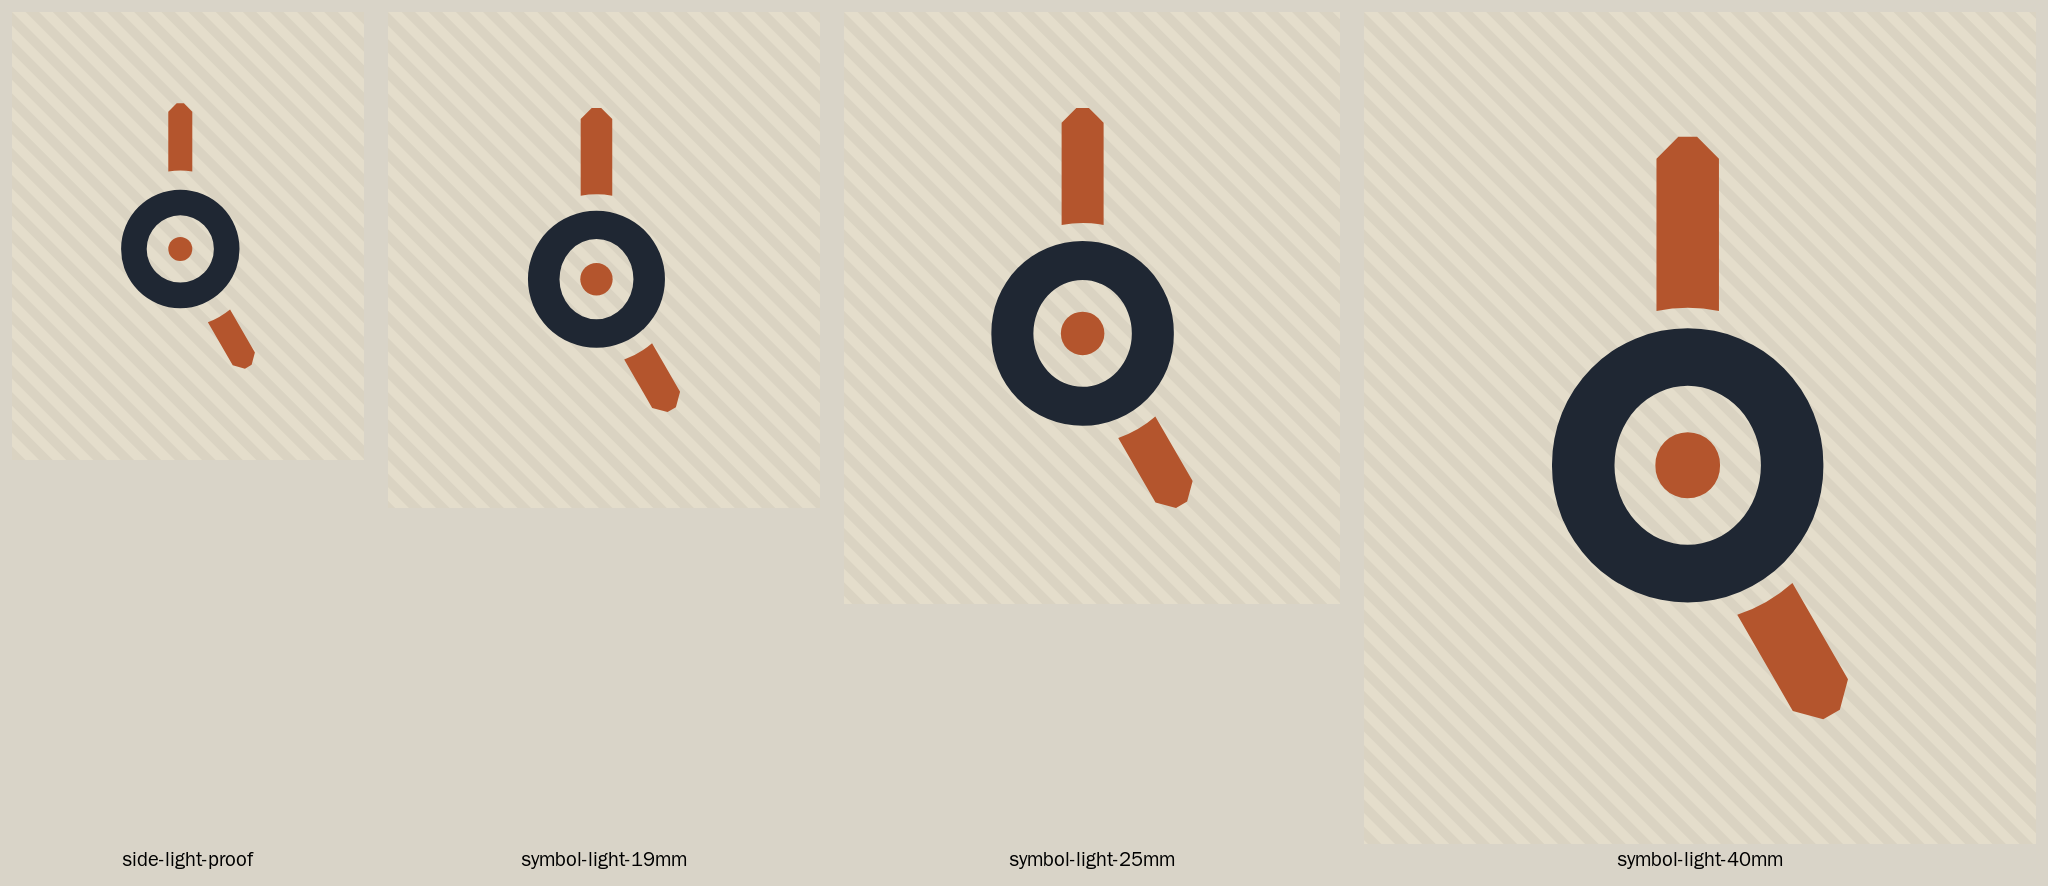
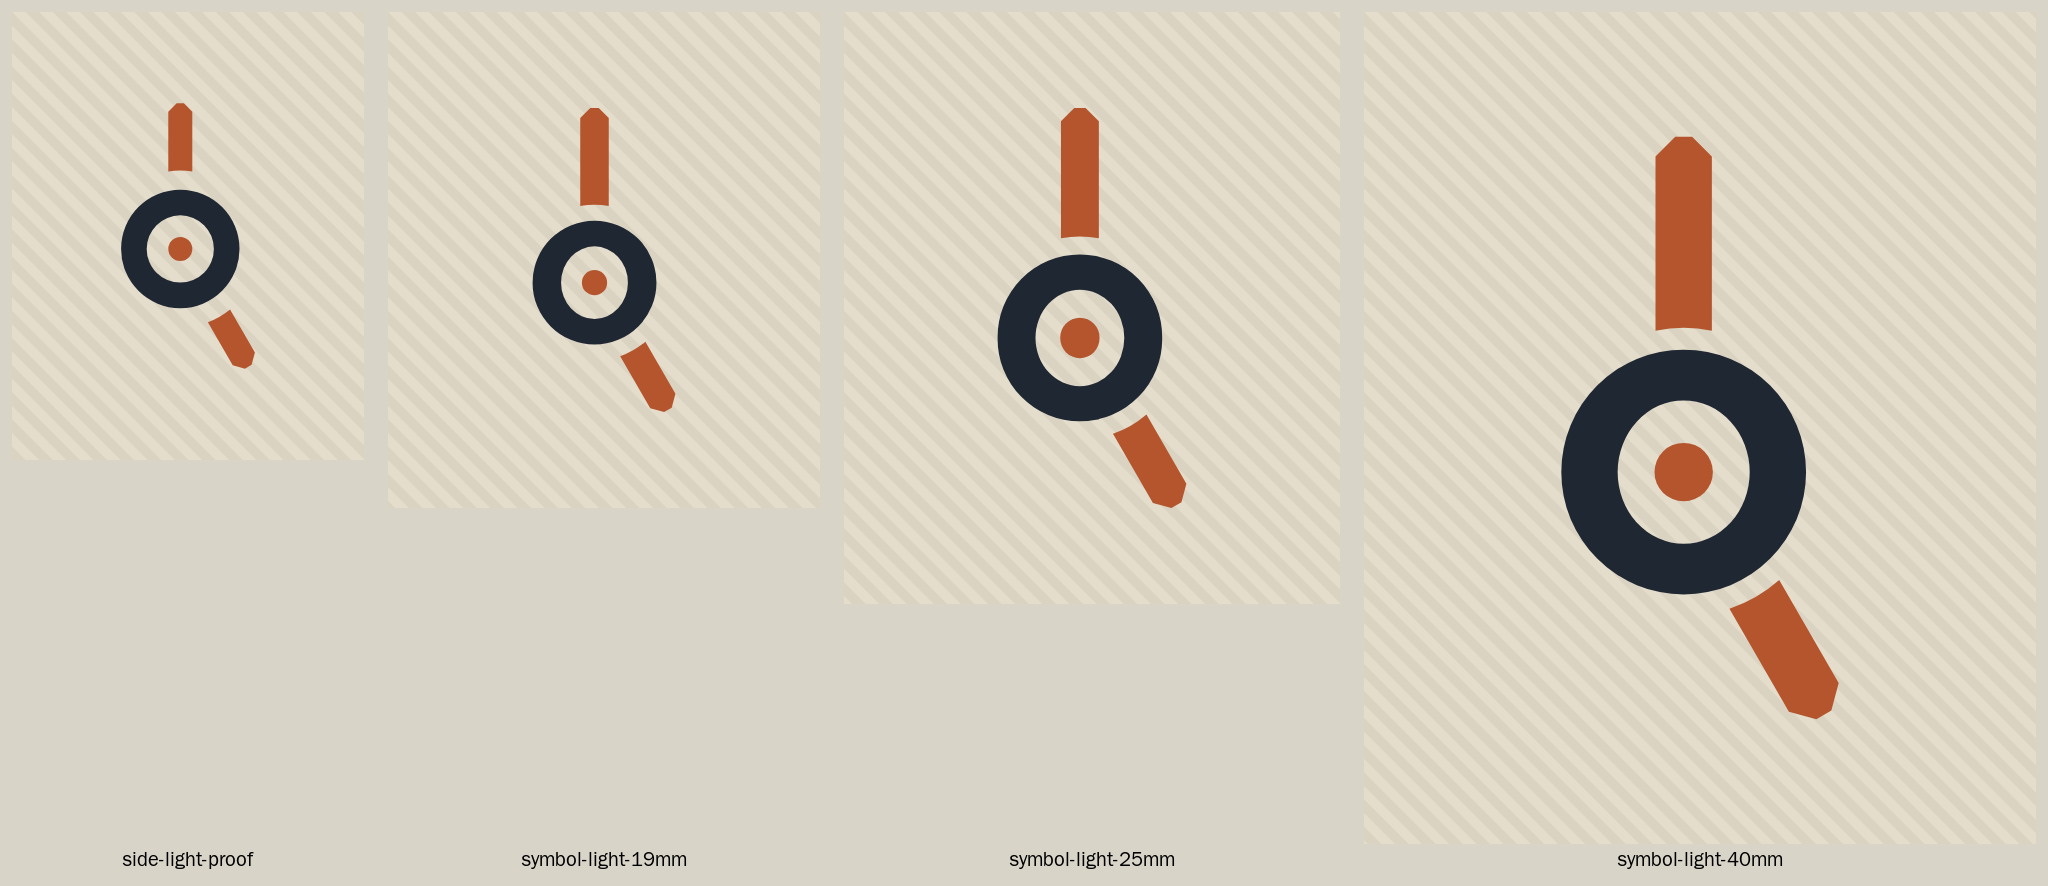
Truly blind reads: short hands cost nothing; symbol keeps the long hands
Twelve readers, each a fresh agent shown one image and four neutral questions.
Lockup: short and long hands both read OFF SHFT 3/3 at 9/10, and every reader
saw a clock at about 5:00 unprompted. All six also said the lower hand can pass
for a Q's tail at a glance, whatever its length. Symbol alone: long hands 6.3/10
as a clock against 5/10 for short, so the symbol returns to its earlier files.

Earlier reading rounds ran through a tool that also showed every reader the
owner's latest chat message, so they were not blind. clean-reads/RESULTS.md
lists what each round saw; notes.md and thin/RESULTS.md now say so.

Claude-Session: https://claude.ai/code/session_01DEMsE9viXMfy2PBdc6fmky

diff --git a/designs/mark/clean-reads/RESULTS.md b/designs/mark/clean-reads/RESULTS.md
@@ -1,0 +1,94 @@
+# Truly blind reads: short hands (C) against the earlier long hands
+
+## Why this round exists
+
+Every earlier "cold read" ran through a workflow tool that also showed each reader the owner's latest chat
+message (table at the end). Some of those messages gave the answer away ("the arms feel too big for the clock",
+"lets make the letters uniform in size", which one reader then repeated back as a finding). This round was run
+differently: each reader was a separate fresh agent that saw only the prompt below and one image. Their
+transcripts were checked afterwards, and none contained a chat message.
+
+## Method
+
+Twelve readers, three per image, one image each.
+
+| Image | What it is |
+|---|---|
+| Lockup, short hands | `../final/the-o/logo-light-cap7.png` at commit fc3fce1: 7 mm letters, true size, minute 4.6 mm, hour 3.5 mm |
+| Lockup, long hands | the same file at commit ce8576a: minute 6.6 mm, hour 4.7 mm |
+| Symbol, short hands | `symbol-light-25mm.png` at commit fc3fce1: hands at the same proportion to the ring as the short-hand lockup |
+| Symbol, long hands | `symbol-light-25mm.png` at commit ce8576a (and again now) |
+
+Lockup prompt, word for word:
+
+> Quick legibility check, about a minute of work. Open this one image with the Read tool: [path]
+> Don't open, list or search any other files. Look at it the way you'd glance at a logo on the front of a cap,
+> then reply with only these four answers:
+> 1. What does it say? Write the exact letters you read.
+> 2. How sure are you, 1 to 10?
+> 3. Describe the first character in one sentence.
+> 4. Is anything hard to read or odd-looking? One sentence; "nothing" is fine.
+
+Symbol prompt, word for word:
+
+> Quick first-impression check, about a minute of work. Open this one image with the Read tool: [path]
+> Don't open, list or search any other files. It's a small emblem that would be stitched on a clothing item.
+> Reply with only these four answers:
+> 1. What is it a picture of? One short phrase.
+> 2. How sure are you, 1 to 10?
+> 3. What else could it be mistaken for, if anything?
+> 4. Does it suggest any letter or number? If so, which?
+
+## Results
+
+### Lockup
+
+| Hands | Reader | Read as | Sure | Saw a clock? (unprompted) | Anything odd (their words, shortened) |
+|---|---|---|---|---|---|
+| Short | 1 | OFF SHFT | 9 | "like clock hands", 12 and about 5 | lower stroke "sits exactly where a Q's tail goes", "QFF"; SHFT looks like a typo of SHIFT |
+| Short | 2 | OFF SHFT | 9 | "like clock hands", about 5 o'clock | lower hand "sits where a Q's tail would be", "QFF"; SHFT a misspelling of SHIFT |
+| Short | 3 | OFF SHFT | 9 | "like clock hands at 12 and 5" | lower bar "right where a Q's tail would be"; SHFT a typo for SHIFT |
+| Long | 1 | OFF SHFT | 9 | "drawn as a clock face", "roughly 5:00" | lower hand "right where a Q's tail goes", "QFF"; hands stop outside the ring; SHFT a typo |
+| Long | 2 | OFF SHFT | 9 | "clock hands", "about 5:00" | lower hand "a bit like a Q's tail at a glance"; SHFT a misspelling |
+| Long | 3 | OFF SHFT | 9 | "drawn as a clock face", 12 and about 5 | lower hand "where a Q's tail would be"; SHFT a misspelling |
+
+### Symbol (25 mm)
+
+| Hands | Reader | Seen as | Sure | Also mistaken for |
+|---|---|---|---|---|
+| Short | 1 | an abstract clock, about 5:00 | 5 | magnifying glass, bullseye, stopwatch; Q strongest letter |
+| Short | 2 | a stylized clock face, 12 and about 5 | 5 | magnifying glass, Q, target with darts; "top hand only a little longer", could read 12:25 |
+| Short | 3 | a stylized clock face, 5:00 | 5 | magnifying glass, Q, bullseye; "the clock reading is weaker than the Q and magnifying-glass readings at a quick glance" |
+| Long | 1 | clock hands on a centre hub, about 5:00 | 6 | Q, magnifying glass, target, gauge |
+| Long | 2 | a simple clock, 5:00 | 6 | magnifying glass, Q, target; "the clock only shows once you notice that both orange bars point outward from the center" |
+| Long | 3 | clock hands around a centre hub, about 5:00 | 7 | magnifying glass, bullseye, compass; Q strongest letter |
+
+## What it means
+
+- **Lockup: the short hands cost nothing.** Both versions read "OFF SHFT" 3 out of 3 at 9/10, and every reader saw
+  a clock showing about 5:00 without being asked about clocks. The owner's pick (C) is the lockup default.
+- **The "Q's tail" look is there with either hand length.** It comes from a hand at 5 o'clock just outside an O.
+  All six readers still read OFF SHFT correctly. Worth knowing; not a reason to change the mark.
+- **Symbol: the long hands read better on their own** (6.3/10 against 5/10, and the short pair can look like
+  12:25). The symbol keeps the long hands.
+- **SHFT:** all six lockup readers noticed the missing I and read it as SHIFT, which is the intended meaning.
+
+## Earlier rounds: what each reader was also shown
+
+| Round | Readers shown a chat message | The message |
+|---|---|---|
+| offshft-hands-logo (exploration) | 4 of 5 | "i like the hands only, how could we make that more of a logo" |
+| offshft-o-blind-read | 12 of 13 | "make the o a bit bigger" |
+| offshft-o-blind-read-2 | none | |
+| offshft-o-final-review | none | |
+| offshft-o-verify-read | 3 of 4 | "make it 15% bigger and i like that ngl. Are there different fonts we can work with using this blocky style" |
+| offshft-side-verify | 2 of 3 | the same message |
+| offshft-unbounded-review | 5 of 6 | "Im a bigger fan of unnbounnded ngl" |
+| offshft-symbol-confidence | 15 of 16 | "what can we do to raise confidence?" |
+| offshft-hands-option-read | none | |
+| offshft-ticks-read | 12 of 13 | "what if we did inside ticks like how a clock actually works" |
+| offshft-thin-read | 12 of 13 | "make the o less think to accomidate?" |
+| offshft-uniform-read | 12 of 13 | "it looks like a scope yea, lets make the letters uniform in size" |
+| offshft-arms-read | 9 of 10 | "the arms feel too big for the clock" |
+
+Future reading tests should start each reader separately, as in this round, so they see nothing but the prompt.

diff --git a/designs/mark/final/the-o/notes.md b/designs/mark/final/the-o/notes.md
@@ -2,7 +2,7 @@
 
 The O in OFF is a clock face. Two hands stand out of it showing 5:00, quitting time, so the name and the idea are one mark: the shift is over and the time is yours. The hands and pivot dot are stitched in the accent thread so they read as clock hands laid on a dial.
 
-Owner's picks: hands-only clock, W3 watch hands, "The O" placement, Unbounded Bold, the O the same size as the other letters (the symbol on its own keeps a slightly bigger O and a pivot dot), shorter hands ("C": the first ones felt too big for the clock).
+Owner's picks: hands-only clock, W3 watch hands, "The O" placement, Unbounded Bold, the O the same size as the other letters, shorter hands ("C": the first ones felt too big for the clock). The symbol on its own keeps a slightly bigger O, the longer hands and a pivot dot.
 
 **This file is written by `build.cjs`.** Every number below is measured from the generated artwork. Do not edit it by hand; change `build.cjs` and rebuild.
 
@@ -28,10 +28,10 @@ Owner's picks: hands-only clock, W3 watch hands, "The O" placement, Unbounded Bo
 | Clock O | Ring the same height as the font's own O, centred on it (symbol: 1.15 x) | 7.30 mm across |
 | Ring walls | Sides 1.0 x stem (0.98 one colour), top and bottom 0.9 x stem | 1.93 mm sides, 1.74 mm top/bottom; counter 3.43 x 3.82 mm |
 | Channel | Even gap between ring and hands, hand bases concave. Two colours max(1.0, 0.143 cap); one colour 1.2, 1.5 from cap 7 | 1.00 mm (one colour 1.50 mm) |
-| Minute hand | 1.0 stem wide, visible 0.657 cap from the channel (symbol: x 1.15, with its O), exactly 12 o'clock | 1.93 x 4.60 mm |
-| Hour hand | 1.02 stems wide, visible 0.5 cap from the channel (symbol: x 1.15), exactly 150 degrees | 1.97 x 3.50 mm |
+| Minute hand | 1.0 stem wide, visible 0.657 cap from the channel (symbol: 0.936 cap), exactly 12 o'clock | 1.93 x 4.60 mm |
+| Hour hand | 1.02 stems wide, visible 0.5 cap from the channel (symbol: 0.667 cap), exactly 150 degrees | 1.97 x 3.50 mm |
 | Points | 90 degree taper ending in a flat 0.3 x the hand width (this is what stitches) | |
-| Pivot dot | Symbol and side master only, hand colour, at most 0.286 cap, at least 1.3 mm fabric to the counter (1.5 one colour). None in the lockup: no room at letter size, and a dot in a small ring read as a rifle scope. | 25 mm symbol: 2.72 mm |
+| Pivot dot | Symbol and side master only, hand colour, at most 0.286 cap, at least 1.3 mm fabric to the counter (1.5 one colour). None in the lockup: no room at letter size, and a dot in a small ring read as a rifle scope. | 25 mm symbol: 2.45 mm |
 | S | Terminals trimmed so both apertures are 1.0 mm (upper / lower trim) | 0.36 / 0.41 mm (cap 6.6: 0.40 / 0.45 mm) |
 | F-T | Gap between the F arm and the T bar | 1.47 mm |
 
@@ -49,7 +49,7 @@ The hex values are targets. Match each to the nearest colour on a physical threa
 ## Size floors
 
 - Lockup: cap 6.6 mm minimum (59.1 x 15.6 mm), set by the S apertures. Hat fronts: cap 7 (62.6 mm wide). One colour: cap 7 minimum (wider channel).
-- Symbol: 19 mm tall minimum in two colours (dot 2.02 mm), 20.5 mm in one colour (dot 1.87 mm). Plain satin up to 45 mm; above that, split satin or tatami. From 35 mm, use a 1.5 mm channel.
+- Symbol: 19 mm tall minimum in two colours (dot 1.58 mm), 20.5 mm in one colour (dot 1.53 mm). Plain satin up to 45 mm; above that, split satin or tatami. From 35 mm, use a 1.5 mm channel.
 - Under 19 mm: use the side master only (8.4 x 16.6 mm; one colour 8.6 x 16.9 mm). Never scale the main files down.
 - Any embroidered Unbounded Bold text: cap 6.6 mm minimum, letter-spacing 0.12 em, with the S trims. Smaller text needs a separately approved lighter face (owner's decision).
 
@@ -69,6 +69,7 @@ The hex values are targets. Match each to the nearest colour on a physical threa
 
 ## How it was tested
 
-- Blind reading rounds with fresh readers who were given no context. Final lockup (O the same size as the letters, no dot): read "OFF SHFT" 3 out of 3 at 9/10, two readers noting the letters look uniform in size. The same lockup with a dot in a thinner O dropped to 8.3/10 with "scope" readings. The symbol reads as a clock 3 out of 3 at about 6/10. Earlier rounds showed that one-colour versions and short hands drift towards "Q" or "magnifying glass", and that tick marks around the O add "compass" readings.
+- **Truly blind reads.** Each reader was a fresh agent given one image and four neutral questions, nothing else; their transcripts were checked to confirm they saw no chat messages. Final lockup: "OFF SHFT" 3 out of 3, all at 9/10, and all 3 described the O as a clock showing about 5:00 without being asked about clocks. The earlier, longer hands scored exactly the same. Every reader of both versions said the lower hand can pass for a Q's tail at a glance (it comes from a hand at 5 o'clock outside an O, not from the hand length) and that SHFT reads as SHIFT. The symbol reads as a clock at 5:00 3 out of 3, at 6.3/10 with its longer hands (5/10 with the short ones), with "magnifying glass" and "Q" as the usual second readings. Full answers: `designs/mark/clean-reads/RESULTS.md`.
+- **Earlier rounds were not fully blind.** The tool that ran them also showed every reader the owner's latest chat message (for example "make the o a bit bigger", "it looks like a scope", "the arms feel too big for the clock"), so treat those numbers as informed opinions. The two choices they supported, no dot in the lockup and no tick marks, were also the owner's own calls.
 - The symbol is abstract on its own; it gains recognition when used alongside the full logo (for example front logo plus side symbol).
 - Two brand reviews and two embroidery reviews (Archivo, then Unbounded) set every rule above.

diff --git a/BRAND.md b/BRAND.md
@@ -36,7 +36,7 @@ Every design, listing and post comes back to one idea: **you put in the hours, t
 
 Reference brands: Duck Camp, Huk. Quiet, small, well-spaced. One strong symbol instead of big slogans.
 
-- **Logo:** "The O". The O in OFF is a clock face, the same size as the other letters, with two short hands at 5:00 (quitting time) standing out of it. Set in Unbounded Bold. The symbol on its own (the clock O without the letters) uses a slightly bigger O with a pivot dot. Full rules, sizes and digitizer notes: `designs/mark/final/the-o/notes.md`. Never redraw it by hand; regenerate it with `designs/mark/final/the-o/build.cjs`.
+- **Logo:** "The O". The O in OFF is a clock face, the same size as the other letters, with two short hands at 5:00 (quitting time) standing out of it. Set in Unbounded Bold. The symbol on its own (the clock O without the letters) uses a slightly bigger O, longer hands and a pivot dot. Full rules, sizes and digitizer notes: `designs/mark/final/the-o/notes.md`. Never redraw it by hand; regenerate it with `designs/mark/final/the-o/build.cjs`.
 - **Logo colours:** the O and letters in one thread, the hands and pivot dot in the accent. Bone fabric: Ink + Rust. Slate or Spruce fabric: Bone + Sun. Oat: Ink + Rust only after a sew-out passes, otherwise Ink in one colour. Moss or Rust fabric: Bone in one colour. One-colour versions only for tonal or single-thread jobs, never as the default front logo.
 - **Type:** Unbounded Bold (owner's pick), all caps, letter-spacing 0.12 em. Embroidered Unbounded text needs a cap height of at least 6.6 mm and the S terminal trims from `designs/mark/final/the-o/notes.md`; anything smaller needs a separately approved lighter face.
 - **Symbol on its own:** the clock O without the letters, for patches, the back or side of a hat and social avatars. The side-of-hat version is its own small drawing (`side-*.svg`), not a scaled-down copy.

diff --git a/designs/mark/thin/RESULTS.md b/designs/mark/thin/RESULTS.md
@@ -1,8 +1,13 @@
 # Thin O and inside ticks: tested, not adopted
 
+**Correction:** these readers were not context-free. The tool that ran them also showed each reader the owner's
+latest chat message ("what if we did inside ticks like how a clock actually works" for the tick rounds, "make the
+o less think to accomidate?" for the thin-O round). Treat the numbers below as informed opinions, not blind reads.
+Truly blind reads of the final logo are in `../clean-reads/RESULTS.md`.
+
 The owner asked whether tick marks inside the O (like a real clock face) would help, and whether a thinner O
 would make room for them. Both were drawn (`build.cjs`, options `wallFactor` and `ticks` in
-`../final/the-o/build.cjs`) and read cold by fresh readers with no context, three per version.
+`../final/the-o/build.cjs`) and read by fresh readers, three per version.
 
 | Version | Read as | Avg. confidence | What readers saw |
 |---|---|---|---|
